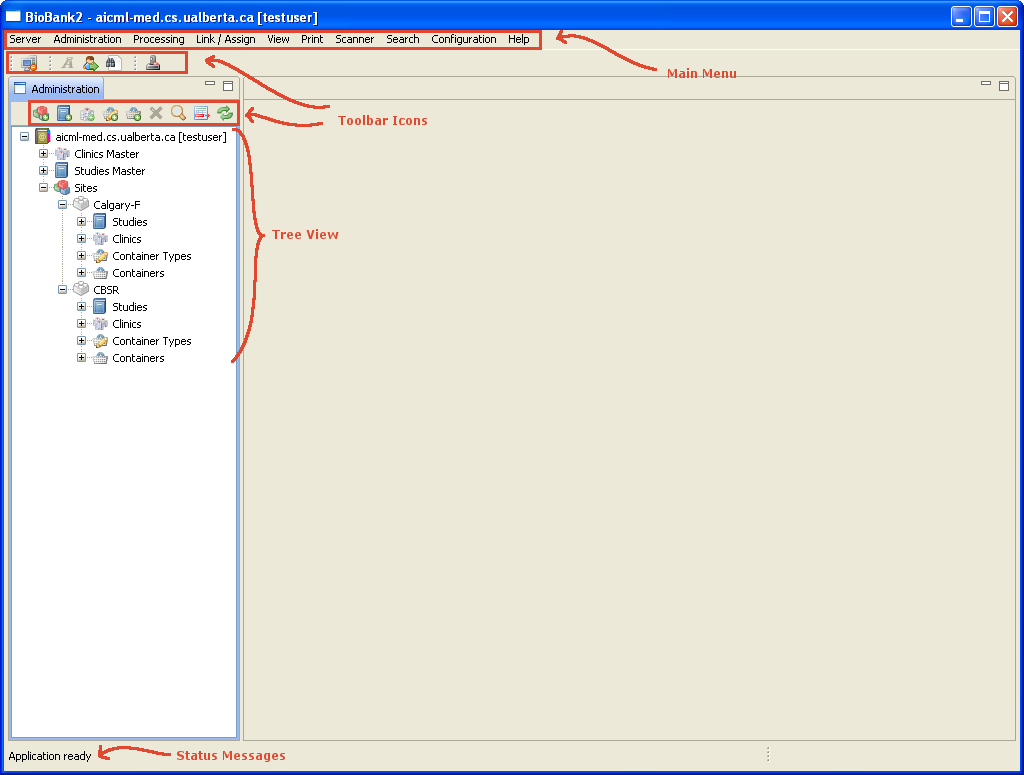
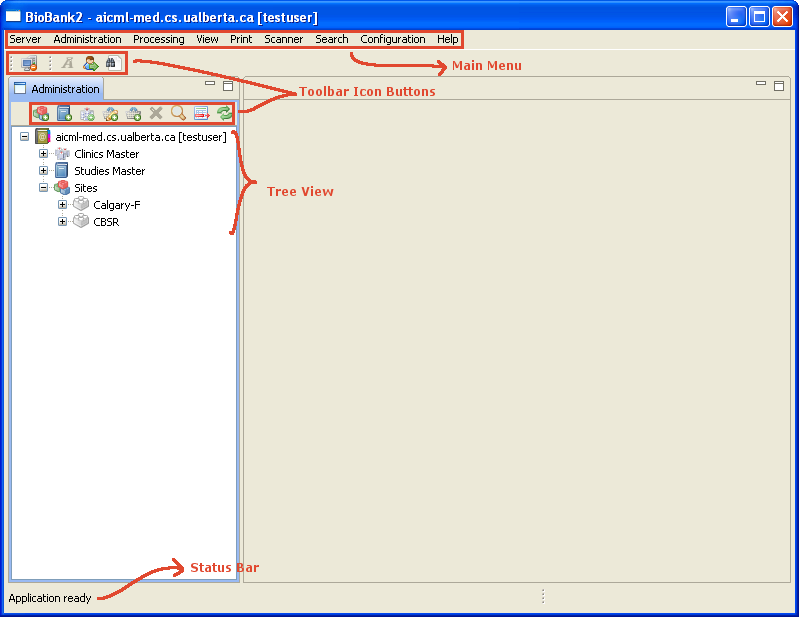
working on overview chapter of java client user manual

Changed region(s): [[0.0, 0.0, 1.0, 1.0]]

diff --git a/docs/javaClientUserGuide/overview.tex b/docs/javaClientUserGuide/overview.tex
@@ -41,26 +41,32 @@ different some of its components.
     pressed the node will expand to show its' child nodes.  Sometimes,
     operations can be performed on certain nodes in the tree by right clicking
     with the mouse on the node.
-  \item[Status Messages] The status message are is used to display various
-    status messages by the application. These messages show the current state
-    of the application.
+  \item[Status Bar] The status bar is used to display the current state of the
+    application. It is usually updated after the user has completed a task.
 \end{description}
 
 \section{Main Menu}
 \label{sec:main_menu}
 
 \subsection{Server}
+The child menu items of the \emph{Server} main menu item allow the user to
+login or logout from a server and to quit the application.
     \begin{figure}[H]
       \centering
-      \scalebox{0.4}
+      \scalebox{0.5}
       { \includegraphics*{screenshots/overview/main_menu_server} }
       \caption{Server menu.}
       \label{fig:main_menu_server}
     \end{figure}
+\begin{description}
+  \item[Login] This menu item allows the user to login to a BioBank2 server. On
+    startup and when logged out this menu item is enabled. When logged into a
+    server this menu item is disabled. Also, the \mbox{\fbox{Ctrl} + \fbox{L}}
+    keyboard short cut can be used to perform this function.
+\end{description}
 
 \subsection{Administration}
 \subsection{Processing}
-\subsection{Link / Assign}
 \subsection{View}
 \subsection{Print}
 \subsection{Scanner}
